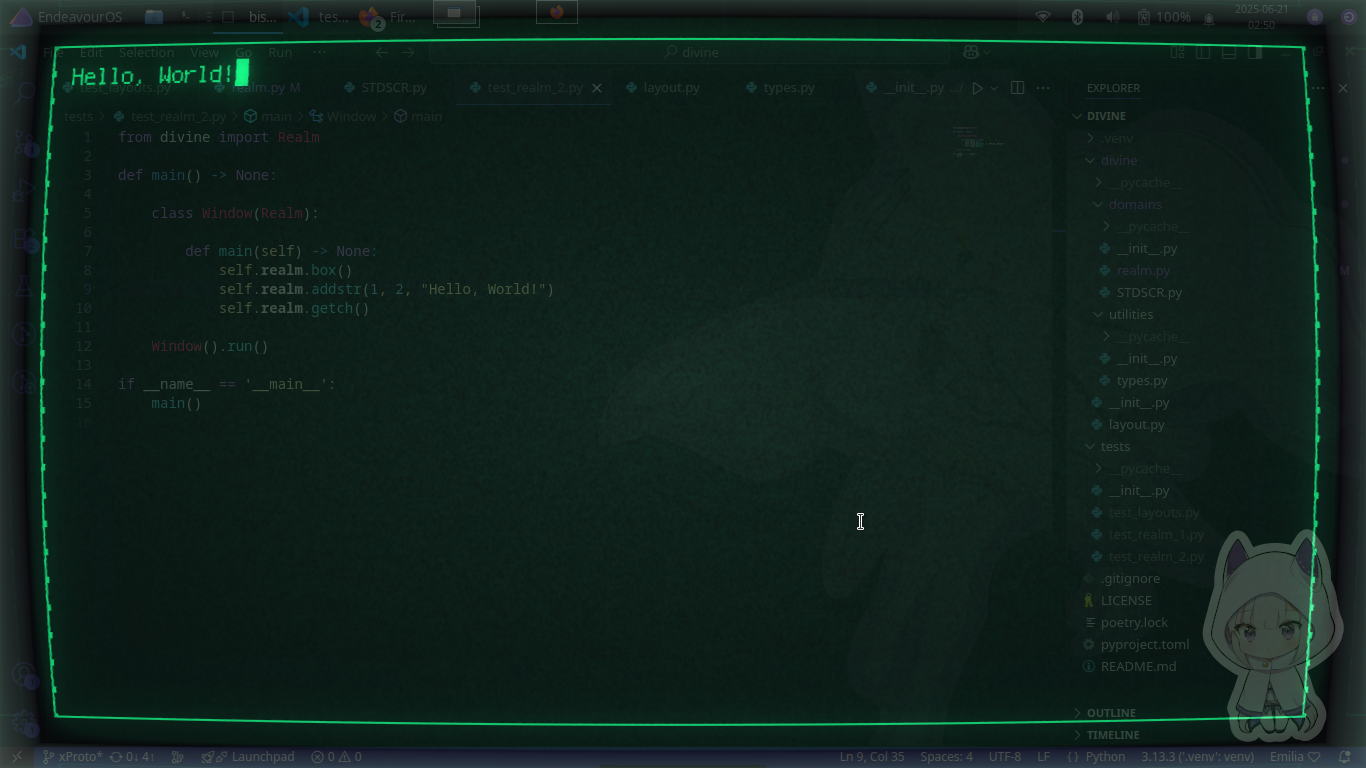
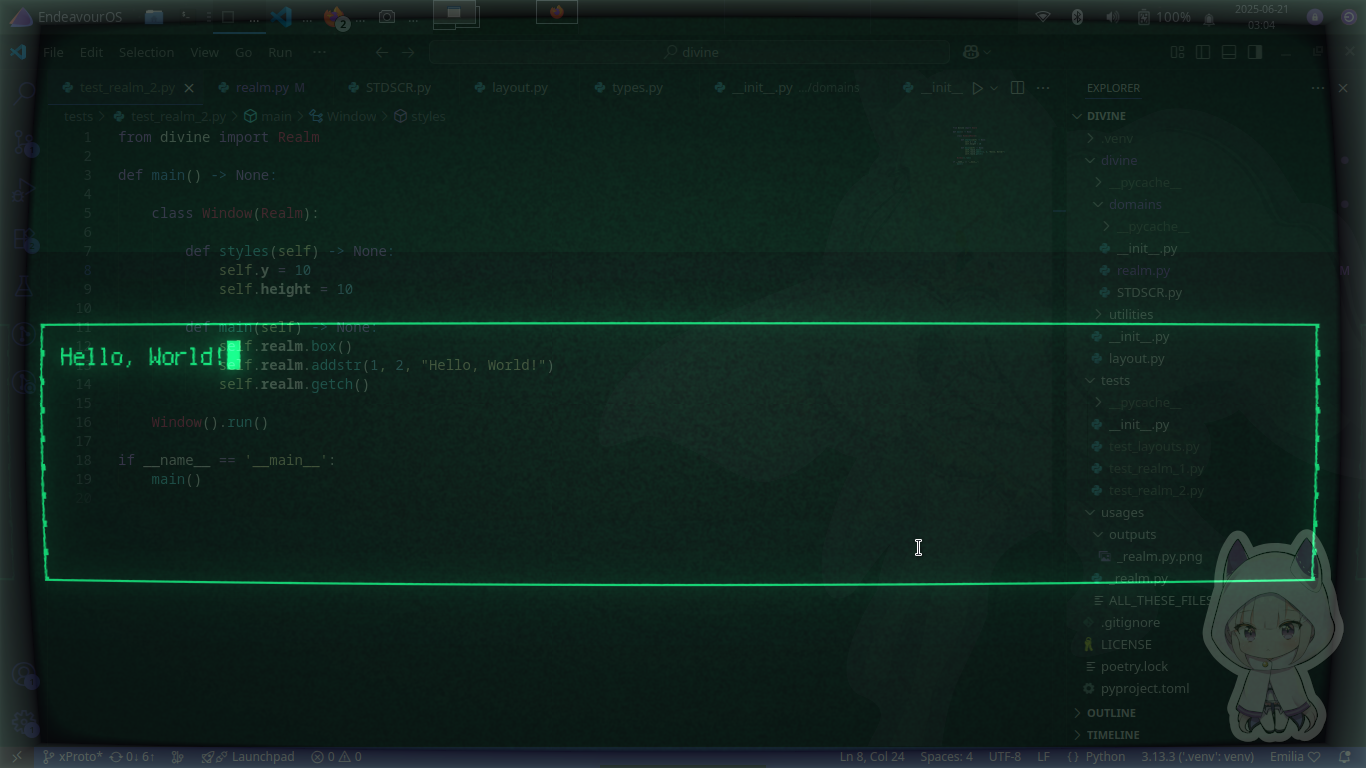
[+] add method: styles()
Now class Realm support pre-defined layouts.
Pre-defined layouts mean layouts those were
applied first before creating a window
assoiated with it.

[~] update usages

diff --git a/divine/domains/realm.py b/divine/domains/realm.py
@@ -27,7 +27,9 @@ class Realm(object):
 
     def summon(self) -> None:
         """ Create a window object and store it in this instance's ".realm".
-        
+
+        This method will call styles() first, then create the desired object.
+
         Any Python curses' window object methods are eligible to use as if 
         they were the same(They are). 
         
@@ -36,7 +38,15 @@ class Realm(object):
 
         """
 
+        # user defined layouts will be applied first
+        self.styles()
+
+        # create a curses window object
         self.realm = newwin(self.height, self.width, self.y, self.x)
+
+    def styles(self) -> None:
+        """ This is where you pre-define the layouts you want.
+        """
 
 
     def main(self) -> None:

diff --git a/usages/_realm.py b/usages/_realm.py
@@ -1,10 +1,12 @@
-# raw usage
-
 from divine import Realm
 
 def main() -> None:
 
     class Window(Realm):
+
+        def styles(self) -> None:
+            self.y = 10
+            self.height = 10
 
         def main(self) -> None:
             self.realm.box()
